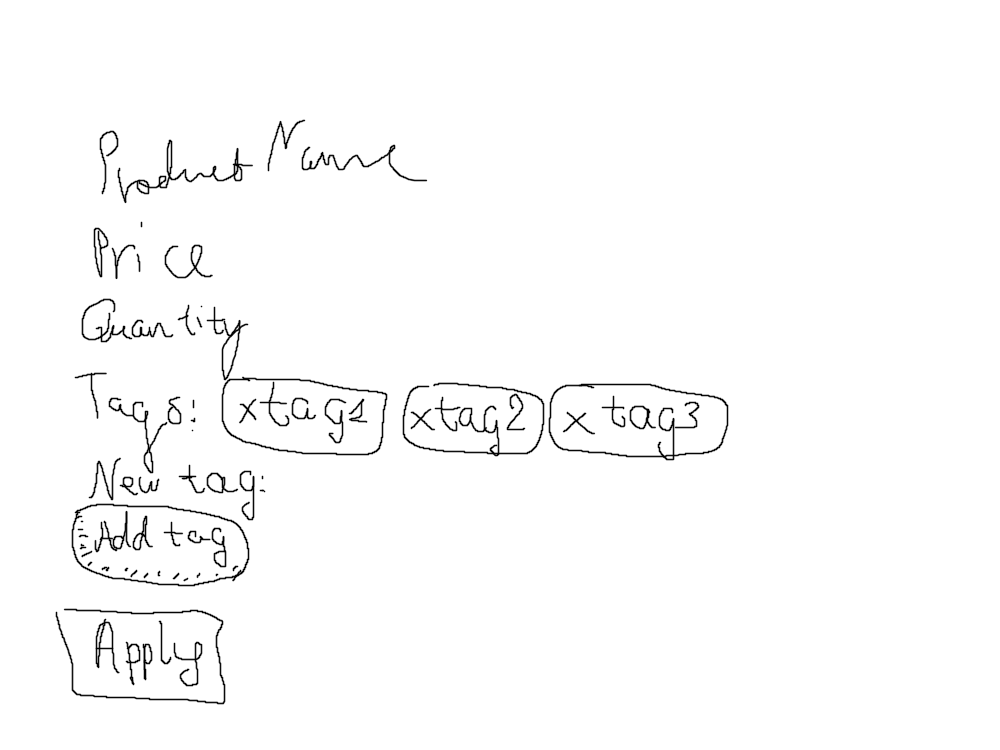
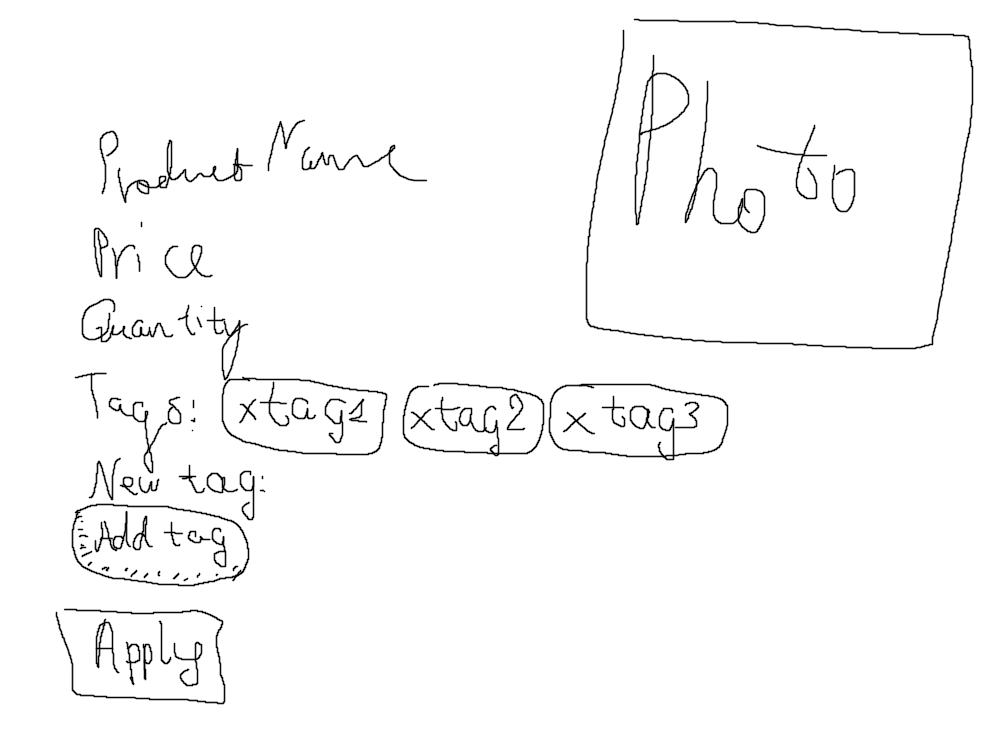
Photo system release + general bugfix

diff --git a/templates/product.html b/templates/product.html
@@ -1,6 +1,17 @@
 {%extends "base.html"%}
 {%block content%}
+<link rel="stylesheet" type="text/css" href="../static/css/product.css">
 <h1>{{paragraph_title}}</h1>
+{%if product != None%}
+<img src="../static/images/products/{%if not img_default%}{{product.id}}{%else%}default{%endif%}.png" class="photo">
+<form method="post" enctype="multipart/form-data" style="text-align: center;">
+	<div>
+		<label for="photo">Load photo</label>
+		<input type="file" name="photo" id="photo">
+	</div>
+	<button type="submit" class="btn" style="background-color: salmon;">Load</button>
+</form>
+{%endif%}
 <form action="" method="post">
 	{{form.hidden_tag()}}
 	<p>

diff --git a/templates/buy_product.html b/templates/buy_product.html
@@ -9,7 +9,9 @@
 	}
 	document.addEventListener("DOMContentLoaded", loaded);
 </script>
+<link rel="stylesheet" type="text/css" href="../static/css/product.css">
 <h1 style="text-align: center;">{{product.name}}</h1>
+<img src="../static/images/products/{%if not img_default%}{{product.id}}{%else%}default{%endif%}.png" class="photo">
 {%if product.in_stock%}
 <h3>{{product.count}} available</h3>
 {%else%}
@@ -33,6 +35,6 @@
 		{{form.buy(class="btn btn.disabled", style="width: 100%;")}}
 		{%endif%}
 	</p>
-	<p class="alert alert-danger">{{message}}</p>
+	{%if message%}<p class="alert alert-danger">{{message}}</p>{%endif%}
 </form>
 {%endblock%}

diff --git a/templates/all_products.html b/templates/all_products.html
@@ -51,6 +51,9 @@
     <a href="/buy_product/{{product.id}}" class="btn btn-success">Buy</a>
     {%endif%}
     {%endif%}
+    {%if img_names[loop.index0] != "default"%}
+    <img src="../static/images/products/{{img_names[loop.index0]}}.png" class="photo">
+    {%endif%}
     {%if not product.in_stock%}
     <div class="tml">Product is out of stock</div>
     {%else%}

diff --git a/templates/index.html b/templates/index.html
@@ -24,6 +24,9 @@
     <a href="/buy_product/{{product.id}}" class="btn btn-success">Buy</a>
     {%endif%}
     {%endif%}
+    {%if img_names[loop.index0] != "default"%}
+    <img src="../static/images/products/{{img_names[loop.index0]}}.png" class="photo">
+    {%endif%}
     {%if not product.in_stock%}
     <div class="tml">Product is out of stock</div>
     {%else%}

diff --git a/templates/my_products.html b/templates/my_products.html
@@ -22,6 +22,9 @@
     <div class="tml">
         Price: {{product.price}}
     </div>
+    {%if img_names[loop.index0] != "default"%}
+    <img src="../static/images/products/{{img_names[loop.index0]}}.png" class="photo">
+    {%endif%}
     {%if not product.in_stock%}
     <div class="tml">Product is out of stock</div>
     {%else%}

diff --git a/static/css/product.css b/static/css/product.css
@@ -1,0 +1,7 @@
+.photo{
+	border-style: dashed;
+	border-color: black;
+	margin: auto;
+	display: block;
+	width: 50%;
+}

diff --git a/static/css/index.css b/static/css/index.css
@@ -1,0 +1,4 @@
+.photo{
+	width: 20%;
+	display: block;
+}

diff --git a/main.py b/main.py
@@ -1,8 +1,8 @@
+import glob
+
 import flask
 import sqlalchemy as sa
 import datetime
-
-import sqlalchemy.ext.hybrid
 from flask_login import *
 from data import db_session
 from data.forms.register import RegisterForm
@@ -32,7 +32,10 @@ def main():
 def index():
     dbs = db_session.create_session()
     products = dbs.query(Product).order_by(sa.desc(Product.id)).limit(10).all()
-    return flask.render_template("index.html", title="TradeMark'ed", products=products)
+    img_names = [file[file.rfind('\\') + 1:file.rfind('.')] for file in glob.glob("static/images/products/*.png")]
+    product_ids = [str(product.id) for product in products]
+    img_names = [p_id if p_id in img_names else "default" for p_id in product_ids]
+    return flask.render_template("index.html", title="TradeMark'ed", products=products, img_names=img_names)
 
 
 @app.route("/register", methods=["POST", "GET"])
@@ -106,8 +109,11 @@ def my_products():
     if not current_user.is_authenticated:
         return flask.redirect("/login")
     dbs = db_session.create_session()
-    products = dbs.query(Product).filter(Product.seller_id == current_user.id)
-    return flask.render_template("my_products.html", title="My Products", products=products)
+    products = dbs.query(Product).order_by(sa.desc(Product.id)).filter(Product.seller_id == current_user.id)
+    img_names = [file[file.rfind('\\') + 1:file.rfind('.')] for file in glob.glob("static/images/products/*.png")]
+    product_ids = [str(product.id) for product in products]
+    img_names = [p_id if p_id in img_names else "default" for p_id in product_ids]
+    return flask.render_template("my_products.html", title="My Products", products=products, img_names=img_names)
 
 
 @app.route("/products/<int:product_id>", methods=["POST", "GET"])
@@ -116,6 +122,15 @@ def edit_product(product_id):
         return flask.redirect("/login")
     form = ProductForm()
     tag_form = TagForm()
+    dbs = db_session.create_session()
+    product = dbs.query(Product).get(product_id)
+    dbs.close()
+    form.name.data = product.name
+    form.count.data = product.count
+    form.price.data = product.price
+    if flask.request.method == "POST":
+        if flask.request.files.get("photo") is not None and flask.request.files["photo"].filename != "":
+            flask.request.files["photo"].save(f"static/images/products/{product_id}.png")
     if flask.request.method == "GET":
         dbs = db_session.create_session()
         product = dbs.query(Product).get(product_id)
@@ -156,8 +171,9 @@ def edit_product(product_id):
             flask.abort(404)
     dbs = db_session.create_session()
     product = dbs.query(Product).get(product_id)
+    img_default = len(glob.glob(f"static/images/products/{product_id}.png")) == 0
     return flask.render_template("product.html", title="Edit product", form=form, paragraph_title="Edit product",
-                                 tags=product.tags, tag_form=tag_form)
+                                 tags=product.tags, tag_form=tag_form, product=product, img_default=img_default)
 
 
 @app.route("/delete_product/<int:product_id>")
@@ -195,7 +211,9 @@ def buy_product(product_id):
                 product.in_stock = False
             dbs.commit()
             return flask.redirect(f"/buy_product/{product_id}")
-    return flask.render_template("buy_product.html", form=form, product=product, title=f"Buy {product.name}")
+    img_default = len(glob.glob(f"static/images/products/{product_id}.png")) == 0
+    return flask.render_template("buy_product.html", form=form, product=product, title=f"Buy {product.name}",
+                                 img_default=img_default)
 
 
 @app.route("/all_products", methods=["POST", "GET"])
@@ -246,8 +264,11 @@ def all_products():
         products = list(filter(lambda x: x.price >= int(flask.session.get("price_from")), products))
     if flask.session.get("price_to"):
         products = list(filter(lambda x: x.price <= int(flask.session.get("price_to")), products))
+    img_names = [file[file.rfind('\\') + 1:file.rfind('.')] for file in glob.glob("static/images/products/*.png")]
+    product_ids = [str(product.id) for product in products]
+    img_names = [p_id if p_id in img_names else "default" for p_id in product_ids]
     return flask.render_template("all_products.html", products=products, show_mode=show_mode, title="All products",
-                                 order=tmporder, desc=desc, tags=tags, session=flask.session)
+                                 order=tmporder, desc=desc, tags=tags, session=flask.session, img_names=img_names)
 
 
 if __name__ == "__main__":
